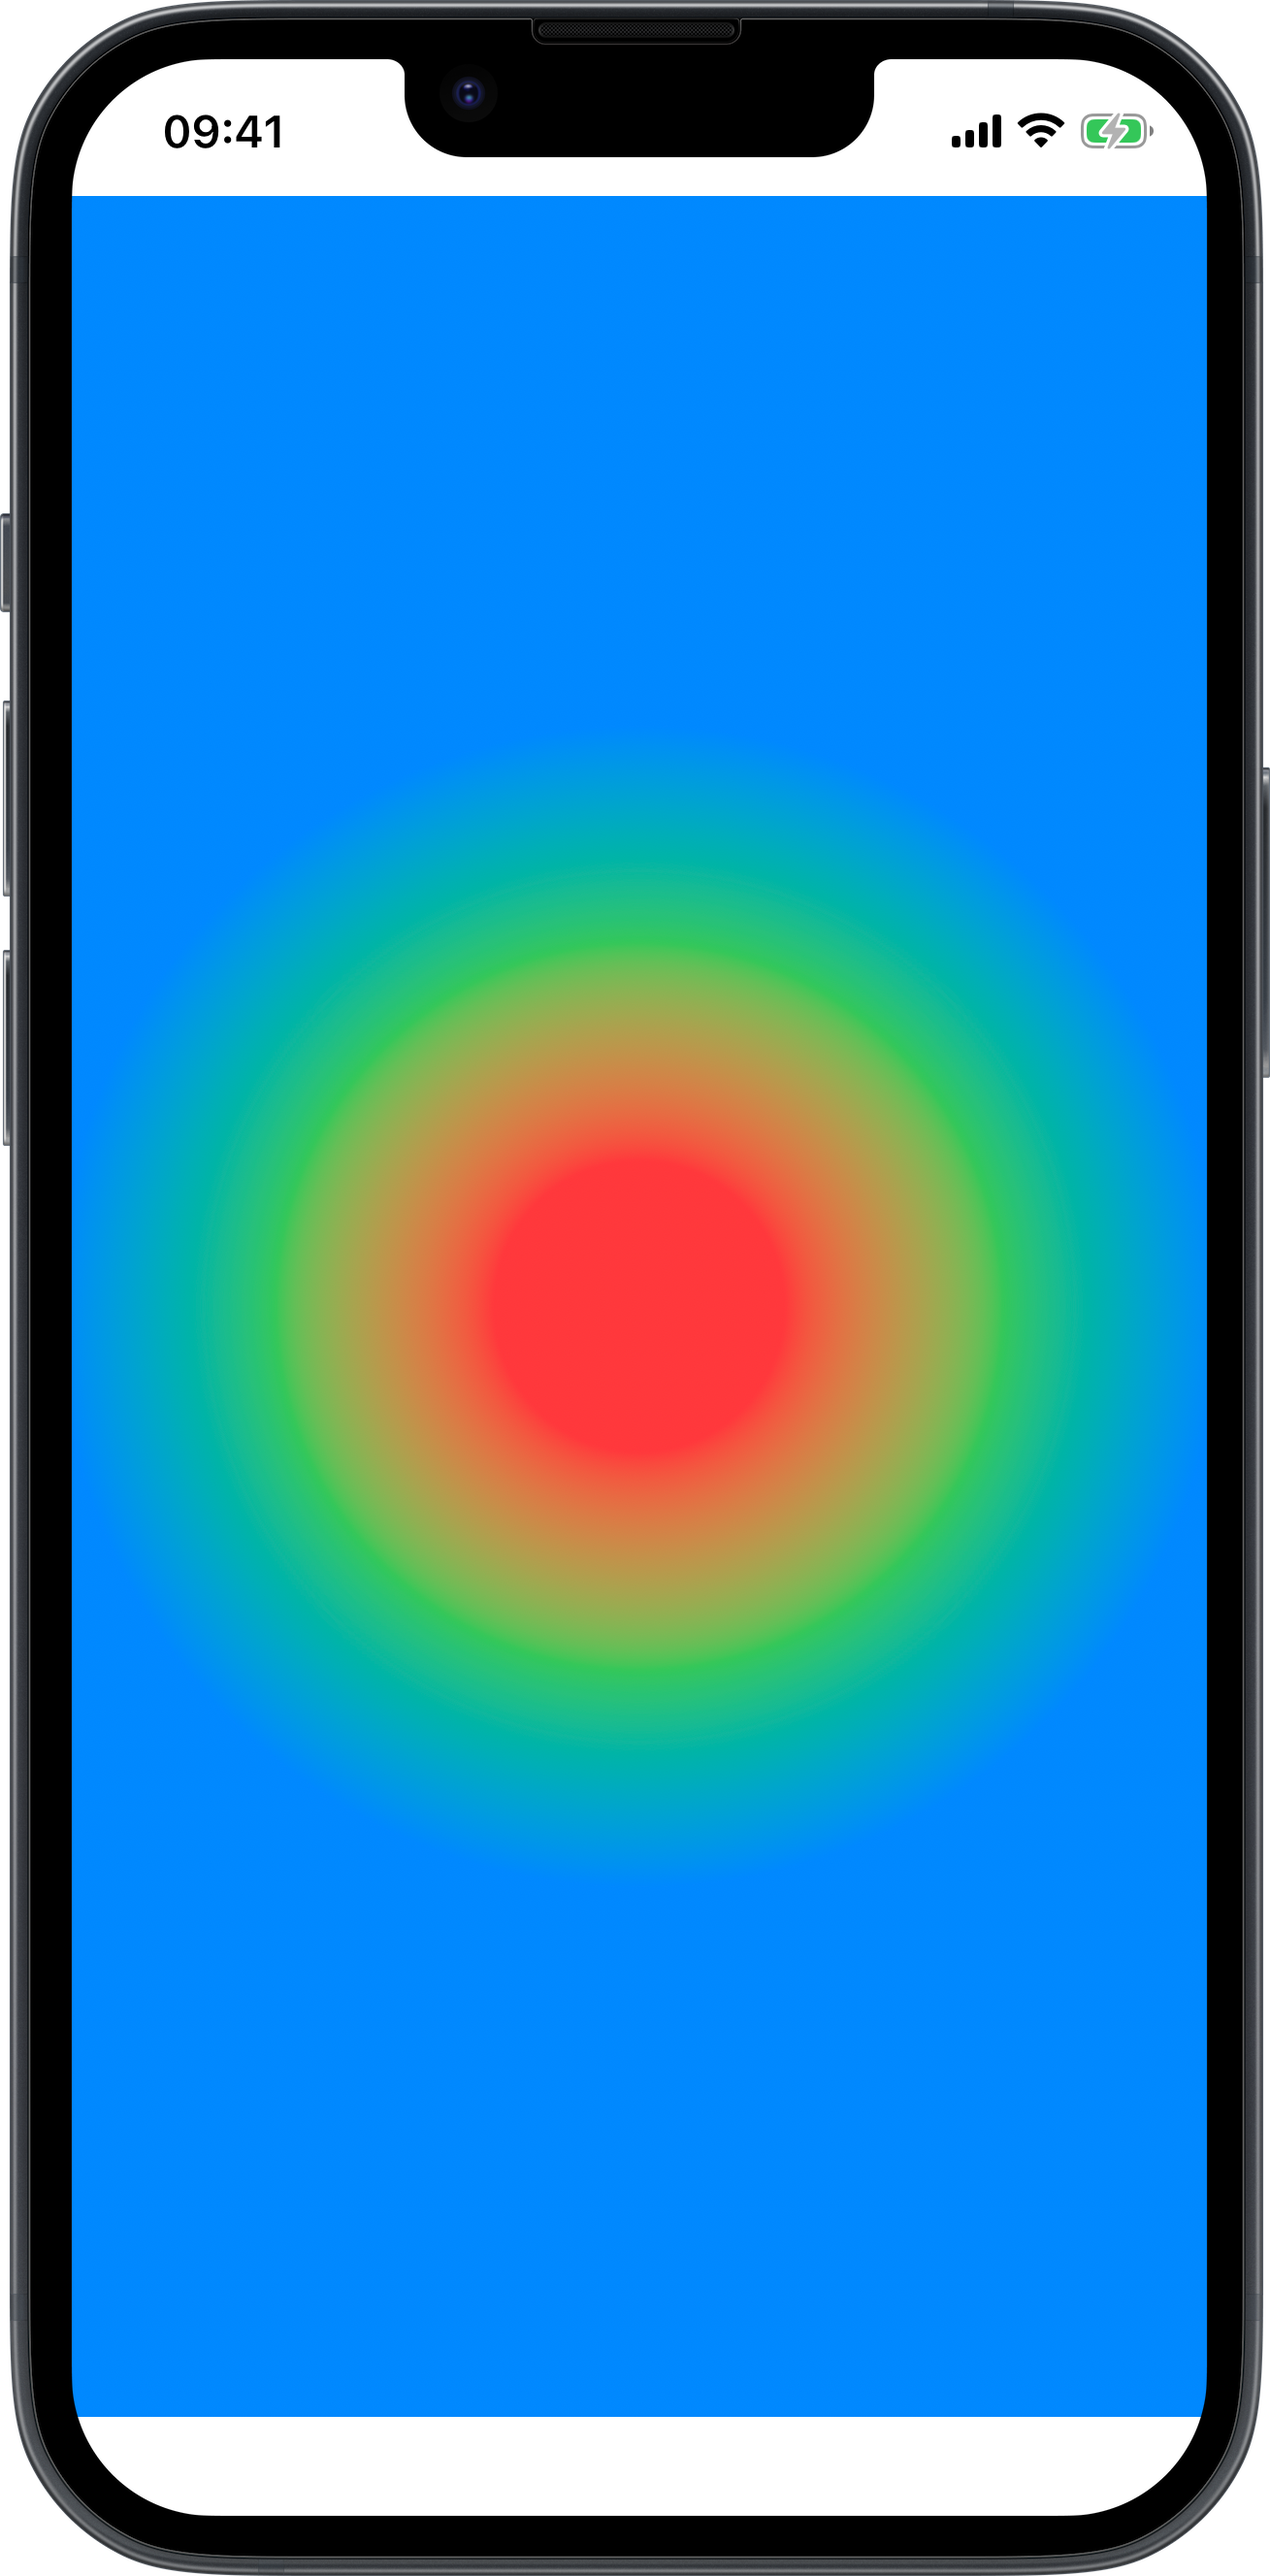
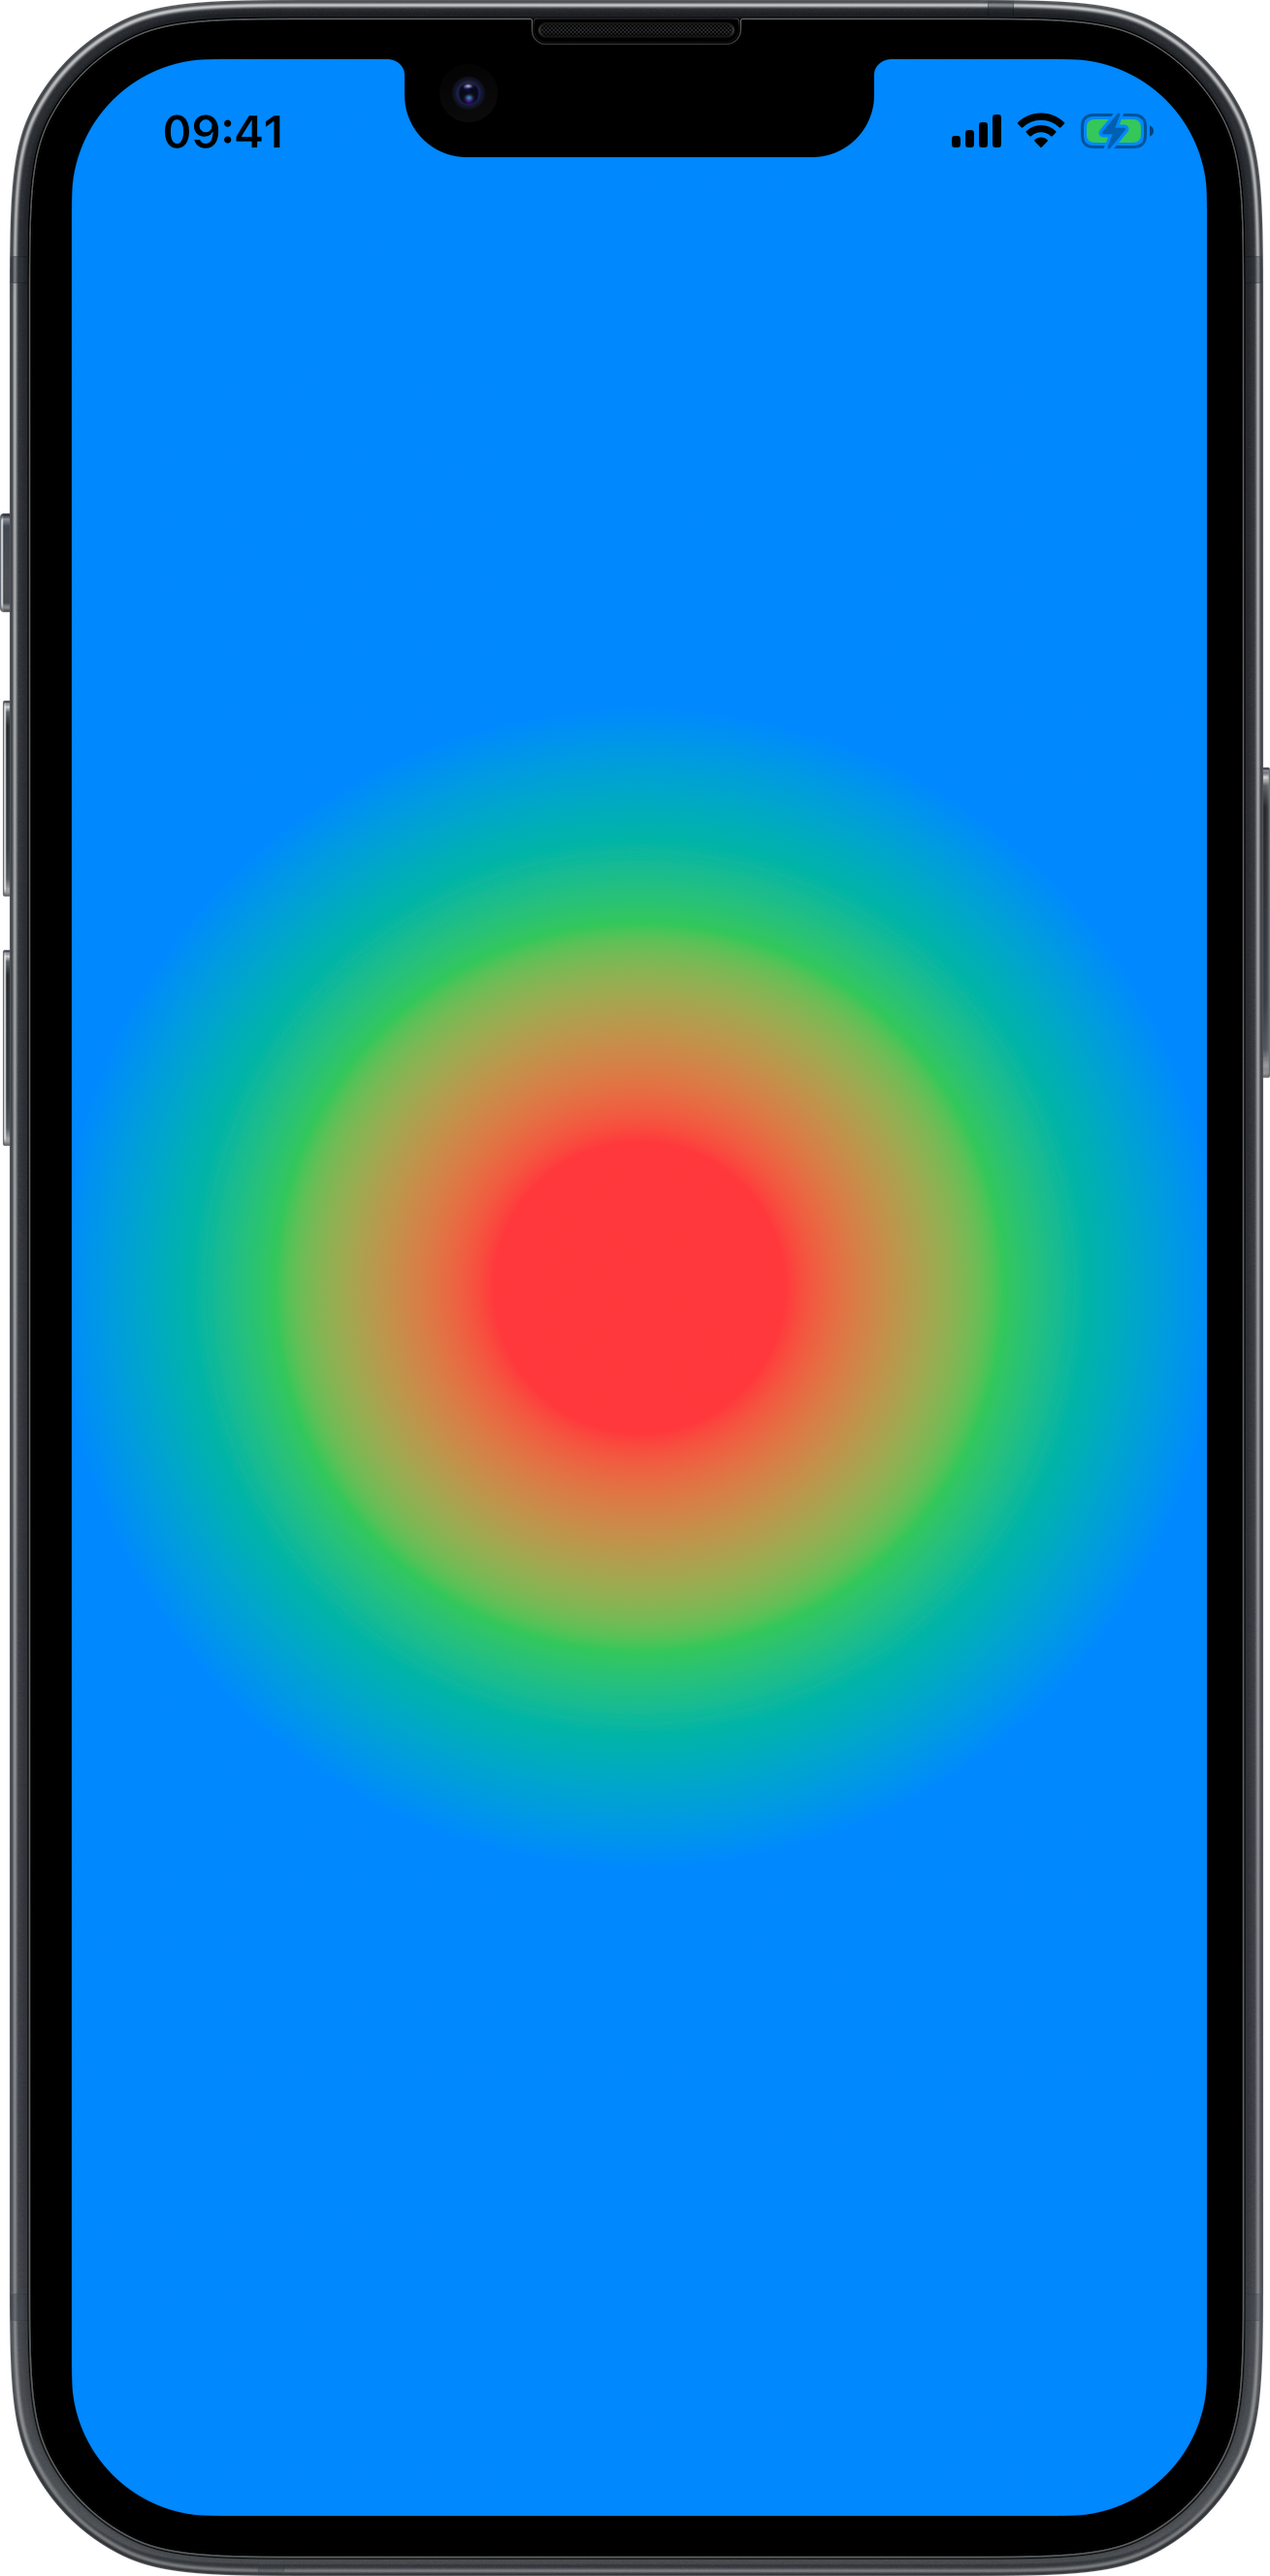
fixed gradients

diff --git a/Views/Paint/radialgradient.md b/Views/Paint/radialgradient.md
@@ -8,7 +8,7 @@ RadialGradient in SwiftUI is a view that creates a radial gradient color transit
 
 ```xml
 <body>
-    <radialgradient gradient="colors:[red,green,blue];center:0.5,0.5;startRadius:50;endRadius:200">
+    <radialgradient gradient="colors:[red,green,blue];center:0.5,0.5;startRadius:50;endRadius:200" ignoresSafeArea="">
     </radialgradient>
 </body>
 ```
